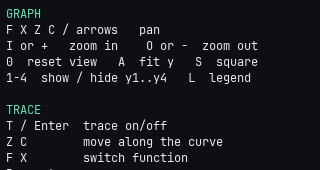
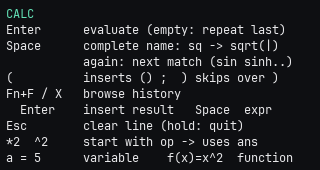
CalcPuter graph on keys 4-8: Shift/Sym zoom/fit/square/reset, Fn trace/root/min-max
- Sym + 4..8 types the same $ % ^ & * as Shift (fix the bar's Sym fallback labels)
- graph page: $ % ^ & * -> zoom out/in, fit y, square, reset; F6/F7/F8 -> trace, root,
  min/max; F X Z C also pan with Shift locked; help + README shot

Claude-Session: https://claude.ai/code/session_017qLHAkC6kcghx4Uy9wAKgW

diff --git a/apps/calcputer/src/calc_app.cpp b/apps/calcputer/src/calc_app.cpp
@@ -66,6 +66,13 @@ const char* help_for(PageId id) {
                    "0  reset view   A  fit y   S  square\n"
                    "1-4  show / hide y1..y4   L  legend\n"
                    "\n"
+                   "#63e2b7 KEYS 4..8# (under the screen)\n"
+                   "Shift/Sym + 4 5 6 7 8:\n"
+                   "  zoom- zoom+ fit-y square reset\n"
+                   "Fn + 6 7 8:  trace  root  min/max\n"
+                   "Double-tap Shift to lock it: then\n"
+                   "4/5 zoom again and again, F X Z C pan\n"
+                   "\n"
                    "#63e2b7 TRACE#\n"
                    "T / Enter  trace on/off\n"
                    "Z C        move along the curve\n"
@@ -174,6 +181,7 @@ void CalcApp::destroy() {
 
 void CalcApp::show(PageId id) {
     current_ = id;
+    refresh_layer_bar();
     for (int i = 0; i < 3; ++i) {
         if (i == static_cast<int>(id)) lv_obj_clear_flag(pages_[i], LV_OBJ_FLAG_HIDDEN);
         else lv_obj_add_flag(pages_[i], LV_OBJ_FLAG_HIDDEN);
@@ -195,8 +203,22 @@ void CalcApp::refresh_status() {
 
 // what 4..8 do with Fn (F4..F8 = Fn + 4..8); Shift / Sym show the typed characters
 void CalcApp::refresh_layer_bar() {
-    layer_bar_.set(4, "theme", true, cz::KeyLayer::Fn);
-    layer_bar_.set(5, "clear", true, cz::KeyLayer::Fn);
+    using cz::KeyLayer;
+    for (auto l : {KeyLayer::Shift, KeyLayer::Sym, KeyLayer::Fn}) layer_bar_.clear(l);
+    layer_bar_.set(4, "theme", true, KeyLayer::Fn);
+    layer_bar_.set(5, "clear", true, KeyLayer::Fn);
+    if (current_ != PageId::Graph) return;
+    // the graph page: Shift or Sym + 4..8 ($ % ^ & *) shape the view, Fn + 6..8 analyse
+    for (auto l : {KeyLayer::Shift, KeyLayer::Sym}) {
+        layer_bar_.set(4, "zoom -", true, l);
+        layer_bar_.set(5, "zoom +", true, l);
+        layer_bar_.set(6, "fit y", true, l);
+        layer_bar_.set(7, "square", true, l);
+        layer_bar_.set(8, "reset", true, l);
+    }
+    layer_bar_.set(6, "trace", true, KeyLayer::Fn);
+    layer_bar_.set(7, "root", true, KeyLayer::Fn);
+    layer_bar_.set(8, "min/max", true, KeyLayer::Fn);
 }
 
 void CalcApp::toggle_help() {

diff --git a/apps/calcputer/src/graph_page.cpp b/apps/calcputer/src/graph_page.cpp
@@ -353,13 +353,23 @@ bool GraphPage::on_key(const cz::KeyEvent& ev) {
     const bool press = ev.phase == cz::KeyPhase::Press;
     uint32_t k = ev.key;
 
-    // bare F/X/Z/C act as arrows here (no text entry on this page)
+    // bare F/X/Z/C act as arrows here (no text entry on this page); also with Shift locked
     switch (k) {
-        case 'f': k = key::Up; break;
-        case 'x': k = key::Down; break;
-        case 'z': k = key::Left; break;
-        case 'c': k = key::Right; break;
-        default: break;
+        case 'f': case 'F': k = key::Up; break;
+        case 'x': case 'X': k = key::Down; break;
+        case 'z': case 'Z': k = key::Left; break;
+        case 'c': case 'C': k = key::Right; break;
+        // keys 4..8 under the screen: Shift / Sym give $ % ^ & *, Fn gives F4..F8 (see the bar)
+        case '$': k = 'o'; break;  // zoom out
+        case '%': k = 'i'; break;  // zoom in
+        case '^': k = 'a'; break;  // fit y
+        case '&': k = 's'; break;  // square
+        case '*': k = '0'; break;  // reset
+        default:
+            if (k == key::F(6)) k = 't';       // trace
+            else if (k == key::F(7)) k = 'r';  // root
+            else if (k == key::F(8)) k = 'm';  // min / max
+            break;
     }
 
     const double cx = trace_ ? trace_x_ : (view_.xmin + view_.xmax) / 2;

diff --git a/common/src/view/shortcut_bar.cpp b/common/src/view/shortcut_bar.cpp
@@ -21,9 +21,10 @@ lv_color_t ShortcutBar::key_color(int key) {
 }
 
 const char* ShortcutBar::typed(int key, platform::KeyLayer layer) {
-    // from the device keymaps (linux,keymap / keymap1 / keymap2) and the US shift row
+    // Shift: the US shift row. Sym: keymap1 sends codes 40 41 43 51 52 for 4..8, which the
+    // M5Stack symbol map (KeyDecoder::builtin_symbol) turns into the same $ % ^ & *.
     static const char* shift[kKeys] = {"$", "%", "^", "&", "*"};
-    static const char* sym[kKeys] = {"'", "`", "\\", ",", "."};
+    static const char* sym[kKeys] = {"$", "%", "^", "&", "*"};
     static const char* fn[kKeys] = {"F4", "F5", "F6", "F7", "F8"};
     static const char* base[kKeys] = {"4", "5", "6", "7", "8"};
     if (key < kFirstKey || key > kLastKey) return "";

diff --git a/common/src/view/shortcut_bar.h b/common/src/view/shortcut_bar.h
@@ -7,7 +7,8 @@
 //
 // Layers: while Shift, Sym or Fn is tapped or locked (Runtime::key_layer()), the bar shows
 // what 4..8 do in that layer: the app's labels for it, or else what the key types
-// ($ % ^ & *, ' ` \ , ., F4..F8) in grey. A tag on the left names the layer (filled
+// ($ % ^ & * for both Shift and Sym, F4..F8 for Fn) in grey. Shift and Sym type the same
+// characters on 4..8, so an app can tell only three sets apart: digits, $%^&*, F4..F8. A tag on the left names the layer (filled
 // when locked). With auto_hide the bar only appears while a modifier is active, for
 // screens where 4..8 are plain digits (calculators).
 #pragma once

diff --git a/CLAUDE.md b/CLAUDE.md
@@ -39,7 +39,8 @@
 - Шари: `platform::ModifierWatch` (у Runtime, опитування кожні 80 мс) читає стан Shift/Fn/Sym з M5IOE1 (I²C 0x4F, рег. 0xBD/0xBE/0xBF,
   0 off / 1 once / 3 lock; `I2C_SLAVE_FORCE` + лише SMBus byte reads, працює від `pi` у групі i2c). `Runtime::set_layer_handler` →
   `ShortcutBar::show_layer`. Підписи на шар: `set(key, text, enabled, KeyLayer::Fn)`; без підпису показується, що клавіша друкує
-  (Shift `$ % ^ & *`, Sym `' ` \ , .` — з `linux,keymap1` пристрою, Fn `F4..F8`). `set_auto_hide(true)` — рядок лише поки шар активний
+  (Shift і Sym обидва `$ % ^ & *`: Sym шле коди 40/41/43/51/52, які `builtin_symbol` перетворює на ті самі символи;
+  тож розрізнити можна лише 3 набори: цифри, `$%^&*`, `F4..F8`). `set_auto_hide(true)` — рядок лише поки шар активний
   (калькулятори, SerialPuter). Десктоп: Shift/Ctrl(=Fn)/Alt(=Sym) з SDL; скрипти: `{layer:fn}`, `{layer:sym!}` (зафіксований), `{layer:base}`.
 - Grove 5 V і режим Grove керуються LED-класом: `/sys/class/leds/grove_5v_out` (за замовч. 0 = вимкнено!), `grove_fun`,
   `ext_5v_out`, `ext_usb_gpio_fun` (група gpio може писати).

diff --git a/README.md b/README.md
@@ -18,6 +18,7 @@ Small native apps for the [M5Stack CardputerZero](https://shop.m5stack.com/pages
 | ![calc](apps/calcputer/screenshots/calc.png) | ![history](apps/calcputer/screenshots/history.png) |
 | ![functions](apps/calcputer/screenshots/functions.png) | ![graph](apps/calcputer/screenshots/graph.png) |
 | ![trace](apps/calcputer/screenshots/trace.png) | ![help](apps/calcputer/screenshots/help.png) |
+| ![graph-keys](apps/calcputer/screenshots/graph-keys.png) | |
 
 - **Fast input**: `Space` completes names (`sq` → `sqrt(|)`, again cycles `sin(` → `sinh(` → `sign(`;
   user functions and variables first), `(` inserts a `()` pair, `)` steps over an existing one,
